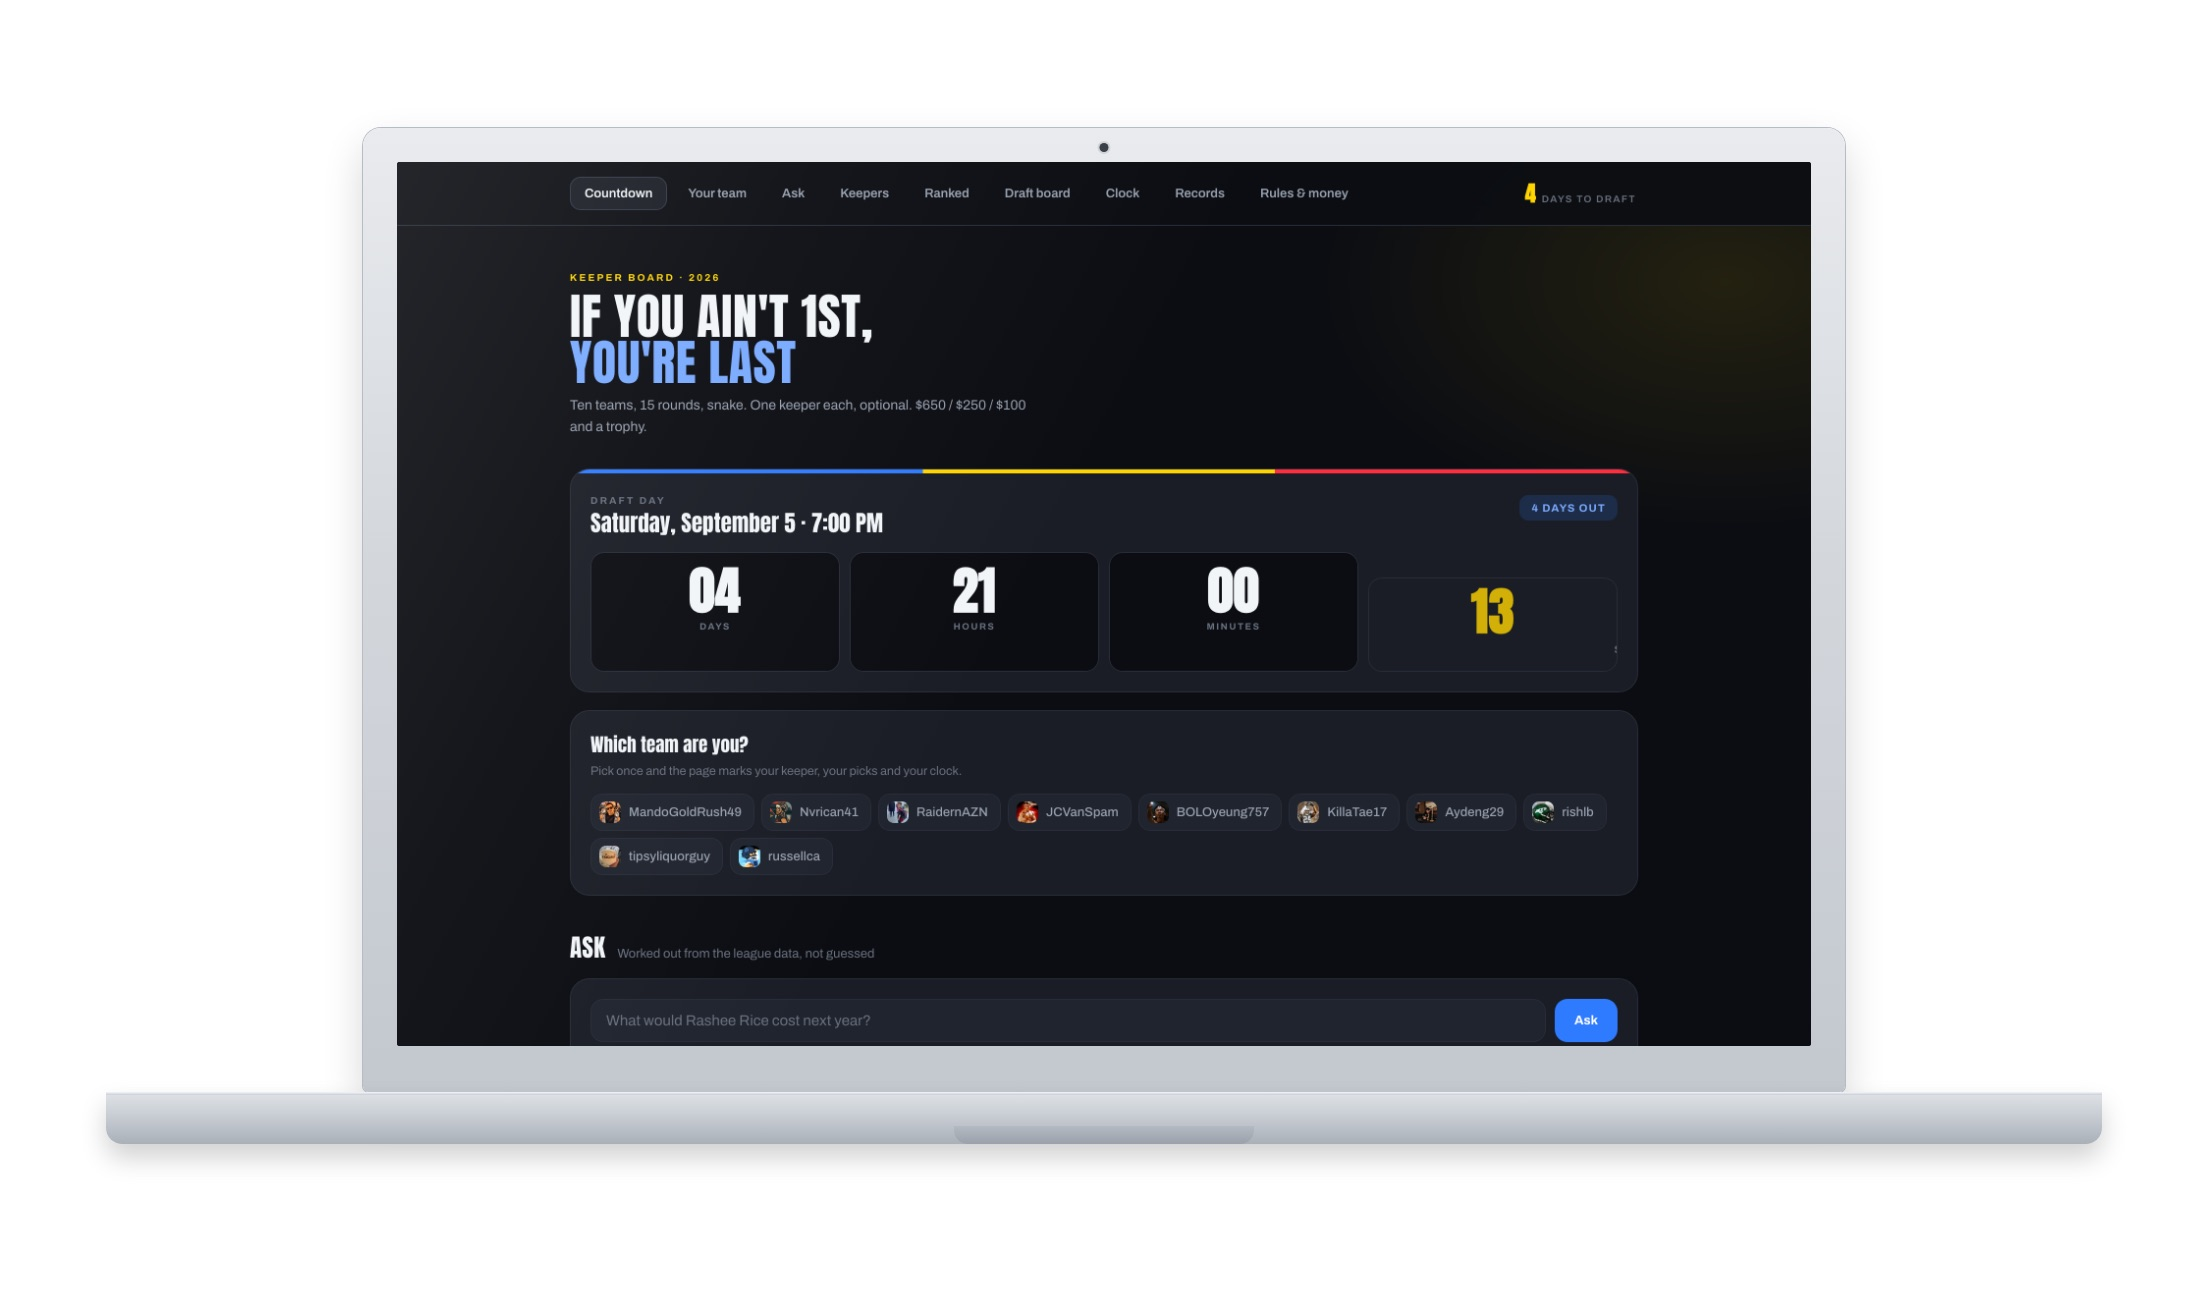
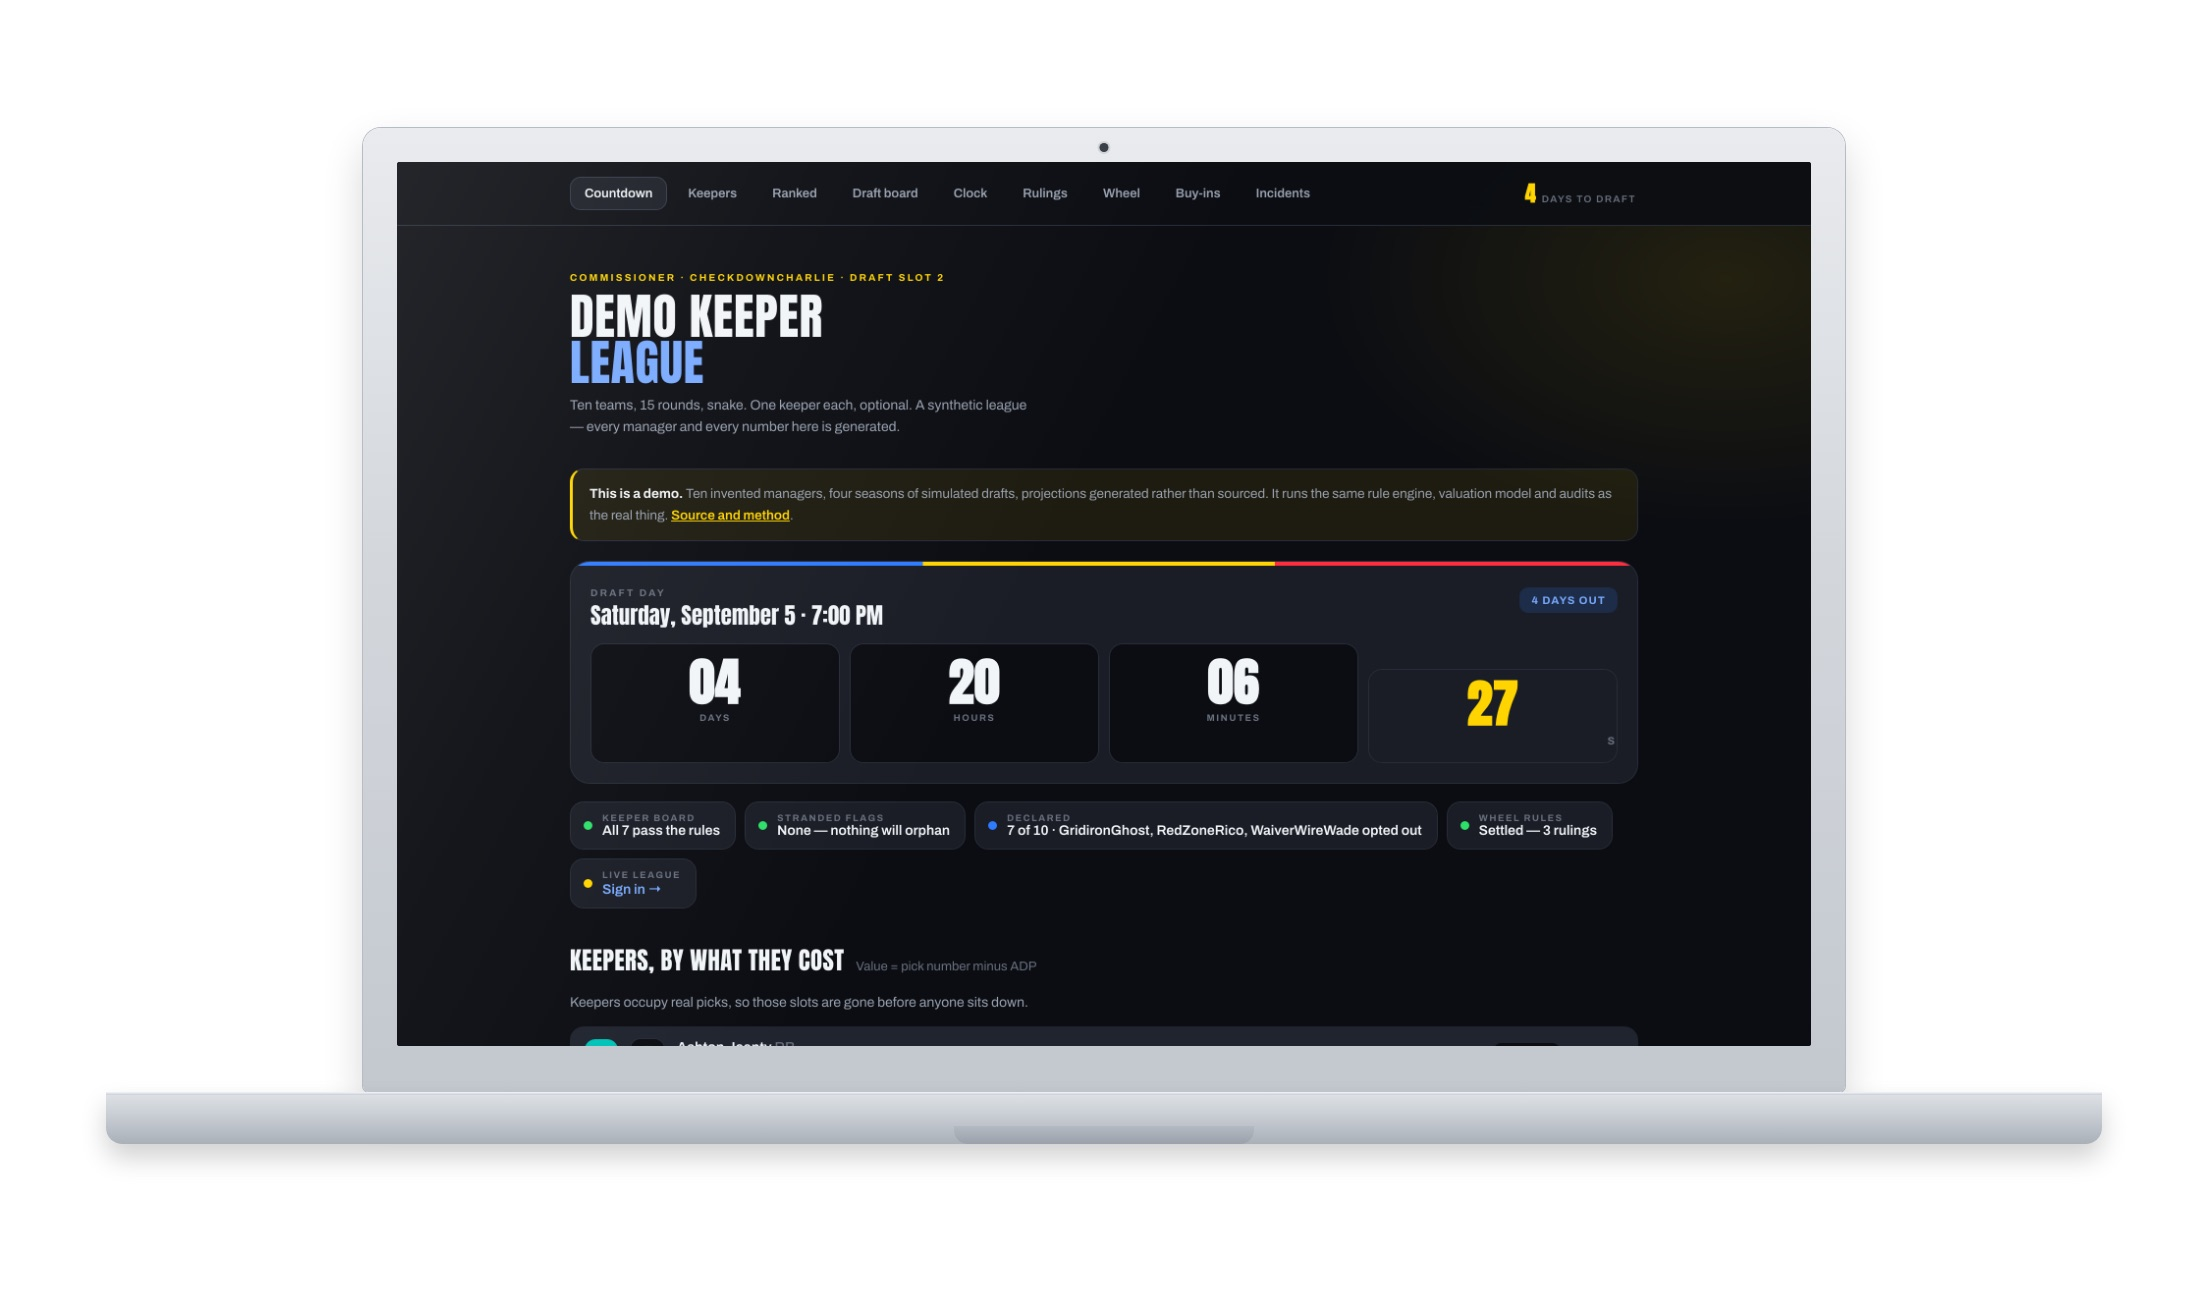
Add link update

diff --git a/index.html b/index.html
@@ -229,16 +229,15 @@
         <div class="websites__content">
 
           <div class="websites__card websites-card">
-            <a href="https://sleeper.shahchisty.com/" target="_blank">
-              <img src="img/sleeper-commish.jpg" class="website-image" alt="Laptop showing a dark fantasy football keeper dashboard, with a draft countdown clock and a row of team names">
+            <a href="https://commish.shahchisty.com/" target="_blank">
+              <img src="img/sleeper-commish.jpg" class="website-image" alt="Laptop showing a dark fantasy football keeper dashboard, with a draft countdown clock and league status cards">
             </a>
-            <h4 class="webistes__card-title">Fantasy Football Commissioner Tools</h4>
+            <h4 class="webistes__card-title">Commissioner's Desk</h4>
             <div class="websites__card-content websites-info">
-              <p class="websites__card-info">I run a Sleeper keeper league, and the rules lived in group chats and a spreadsheet. I replaced both with a Python rule engine that reads the league's public API and audits the keeper board before every draft.</p>
-              <p class="websites__card-info">It catches two things a spreadsheet never would: keepers a commissioner enters by hand carry no API flag and go uncounted, and leftover flags strand players out of the draft entirely, which hit four players in one season. A valuation model ranks each keeper by points over the best player still available at the pick they cost.</p>
-              <p class="websites__card-info">Python for the tooling, vanilla HTML/CSS/JS for the dashboard, published on GitHub Pages. Built with AI assistance. The public repo runs on a synthetic league, so it needs no account or real data.</p>
+              <p class="websites__card-info">A keeper dashboard for the Sleeper fantasy league I run. A Python rule engine audits the draft board and catches players who would otherwise get stranded.</p>
+              <p class="websites__card-info">Vanilla HTML/CSS/JS, built with AI assistance. The demo runs on a synthetic league.</p>
             </div>
-            <a class="websites__card-link websites__card-link--one" href="https://sleeper.shahchisty.com/" target="_blank">Visit Site</a>
+            <a class="websites__card-link websites__card-link--one" href="https://commish.shahchisty.com/" target="_blank">Visit Site</a>
             <a class="websites__card-link" href="https://github.com/Shah-Chisty/sleeper-keeper-tools" target="_blank">See Code</a>
           </div>
 
